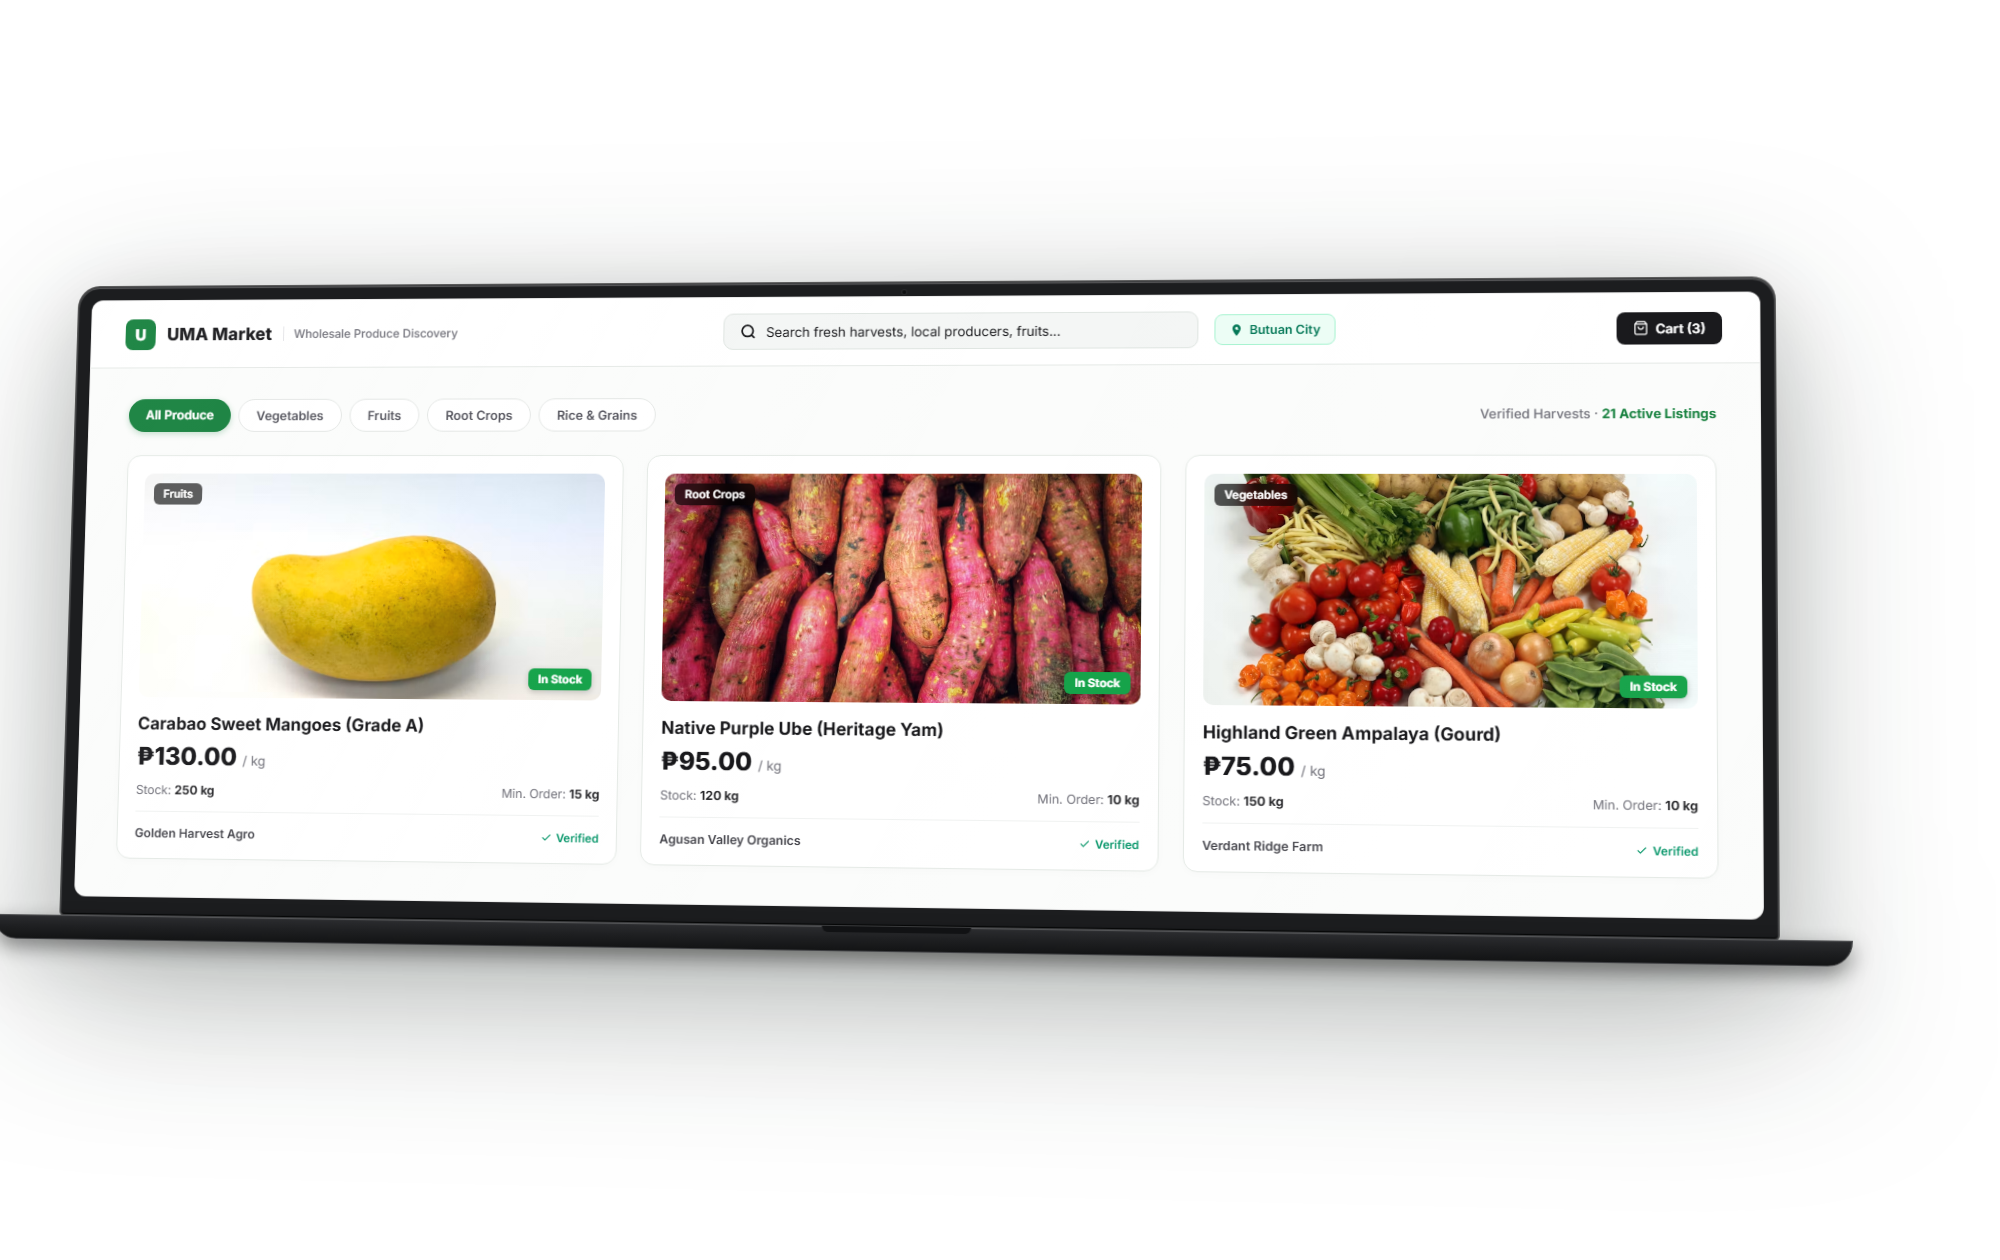
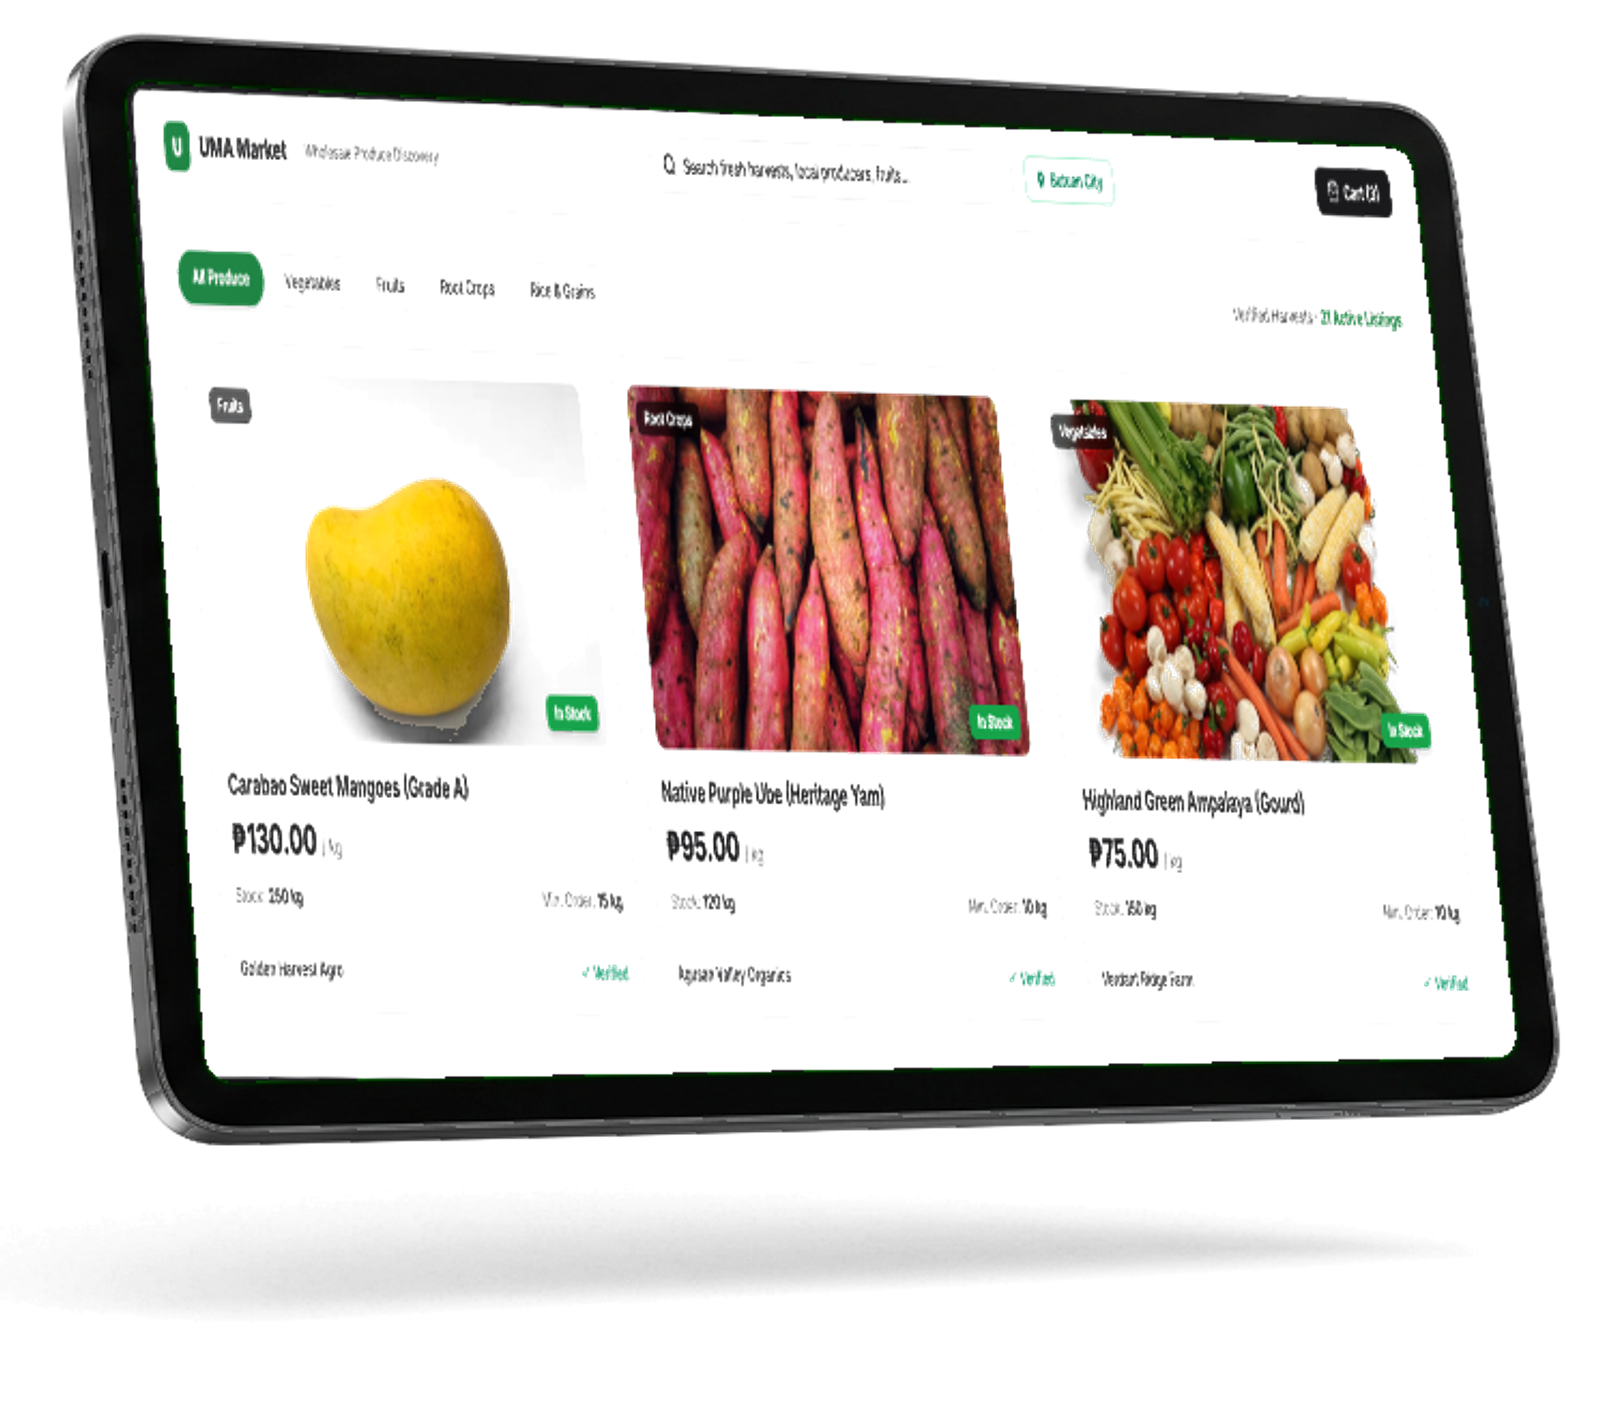
feat(showcase): visual correction for hardware mockups (landscape iPad Pro tablets and 3D titanium phone)
- Replace thin laptop chassis with two premium landscape tablets (iPad Pro form factor) with visible body thickness, chamfered metallic edges, and rounded corners

- Replace flat phone mockup with a thick 3D dark titanium smartphone featuring tactile side buttons, Dynamic Island, and status bar breathing room

- Preserve 100% authentic UMA UI screens mapped via bilinear homography without green fringing or altered UI

- Eliminate shadow clipping: provide generous asset padding and replace restrictive overflow-hidden with overflow-x-clip

- Update ScrollReveal to support single-object physical rotational settling into 0deg with prefers-reduced-motion safety

- Update progress and state documentation

diff --git a/src/app/page.tsx b/src/app/page.tsx
@@ -39,14 +39,14 @@ export default async function HomePage() {
   const dashboardHref = role ? `/${role}` : "/onboarding";
 
   return (
-    <div className="flex min-h-screen flex-col bg-background text-foreground">
+    <div className="flex min-h-screen flex-col bg-background text-foreground overflow-x-clip">
       {/* ── Client Landing Navbar (Transparent over hero, solid on scroll) ── */}
       <LandingNavbar
         isAuthenticated={!!isAuthenticated}
         dashboardHref={dashboardHref}
       />
 
-      <main className="flex-1">
+      <main className="flex-1 overflow-x-clip">
         {/* -- 1. Full-Width Photographic Hero (Approved Foundation) ---- */}
         <section className="relative isolate flex min-h-[560px] sm:min-h-[620px] lg:min-h-[700px] w-full items-center overflow-hidden">
           {/* Full-bleed background image */}
@@ -146,7 +146,7 @@ export default async function HomePage() {
         {/* -- 4. Real Software Showcase: Marketplace Discovery ------- */}
         <section
           id="marketplace-showcase"
-          className="border-t border-border/60 bg-background py-14 sm:py-20 lg:py-24 overflow-hidden"
+          className="border-t border-border/60 bg-background py-14 sm:py-20 lg:py-24"
         >
           <div className="mx-auto max-w-6xl px-4 sm:px-6">
             <div className="grid grid-cols-1 lg:grid-cols-12 gap-10 lg:gap-12 items-center">
@@ -194,16 +194,16 @@ export default async function HomePage() {
                 </div>
               </ScrollReveal>
 
-              {/* Hardware Visual Right (7 cols): Oversized Campaign Laptop Bleeding Right */}
-              <ScrollReveal delay={100} className="lg:col-span-7 flex justify-center lg:justify-end">
-                <div className="relative w-full max-w-[640px] lg:max-w-none lg:w-[124%] lg:-mr-16 xl:-mr-24 lg:translate-x-4">
+              {/* Hardware Visual Right (7 cols): Oversized Landscape Tablet Bleeding Right */}
+              <ScrollReveal delay={100} rotate={1.2} className="lg:col-span-7 flex justify-center lg:justify-end">
+                <div className="relative w-full max-w-[660px] lg:max-w-none lg:w-[126%] lg:-mr-16 xl:-mr-24 lg:translate-x-4">
                   <Image
                     src="/showcase/desktop-marketplace.webp"
-                    alt="UMA Market wholesale produce catalog displayed on a realistic aluminum laptop"
-                    width={2000}
-                    height={1260}
+                    alt="UMA Market wholesale produce catalog displayed on a premium landscape tablet"
+                    width={1600}
+                    height={1426}
                     priority
-                    className="w-full h-auto drop-shadow-2xl select-none pointer-events-none"
+                    className="w-full h-auto select-none pointer-events-none"
                   />
                 </div>
               </ScrollReveal>
@@ -214,19 +214,19 @@ export default async function HomePage() {
         {/* -- 5. Real Software Showcase: Grower Operations ----------- */}
         <section
           id="growers"
-          className="border-t border-border/60 bg-muted/20 py-14 sm:py-20 lg:py-24 scroll-mt-20 overflow-hidden"
+          className="border-t border-border/60 bg-muted/20 py-14 sm:py-20 lg:py-24 scroll-mt-20"
         >
           <div className="mx-auto max-w-6xl px-4 sm:px-6">
             <div className="grid grid-cols-1 lg:grid-cols-12 gap-10 lg:gap-12 items-center">
-              {/* Hardware Visual Left (7 cols): Oversized Slate Tablet Bleeding Left */}
-              <ScrollReveal delay={100} className="lg:col-span-7 order-2 lg:order-1 flex justify-center lg:justify-start">
-                <div className="relative w-full max-w-[640px] lg:max-w-none lg:w-[124%] lg:-ml-16 xl:-ml-24 lg:-translate-x-4">
+              {/* Hardware Visual Left (7 cols): Oversized Landscape Tablet Bleeding Left */}
+              <ScrollReveal delay={100} rotate={-1.2} className="lg:col-span-7 order-2 lg:order-1 flex justify-center lg:justify-start">
+                <div className="relative w-full max-w-[660px] lg:max-w-none lg:w-[126%] lg:-ml-16 xl:-ml-24 lg:-translate-x-4">
                   <Image
                     src="/showcase/desktop-grower.webp"
-                    alt="UMA Farmer management portal with inventory controls and order status on an aluminum slate tablet"
-                    width={1960}
-                    height={1160}
-                    className="w-full h-auto drop-shadow-2xl select-none pointer-events-none"
+                    alt="UMA Farmer management portal with inventory controls and order status on a premium landscape tablet"
+                    width={1600}
+                    height={1426}
+                    className="w-full h-auto select-none pointer-events-none"
                   />
                 </div>
               </ScrollReveal>
@@ -283,19 +283,19 @@ export default async function HomePage() {
         {/* -- 6. Real Software Showcase: Mobile Anywhere ------------- */}
         <section
           id="mobile-showcase"
-          className="border-t border-border/60 bg-background py-14 sm:py-20 lg:py-24 overflow-hidden"
+          className="border-t border-border/60 bg-background py-14 sm:py-20 lg:py-24"
         >
           <div className="mx-auto max-w-6xl px-4 sm:px-6">
             <div className="grid grid-cols-1 lg:grid-cols-12 gap-10 lg:gap-14 items-center">
-              {/* Phone Mockup on Left (5 cols): Realistic Titanium Smartphone */}
-              <ScrollReveal delay={100} className="lg:col-span-5 flex justify-center">
-                <div className="relative max-w-[280px] sm:max-w-[310px] w-full">
+              {/* Phone Mockup on Left (5 cols): Realistic 3D Titanium Smartphone */}
+              <ScrollReveal delay={100} rotate={1.8} className="lg:col-span-5 flex justify-center">
+                <div className="relative max-w-[300px] sm:max-w-[340px] lg:max-w-[360px] w-full">
                   <Image
                     src="/showcase/phone-marketplace.webp"
-                    alt="UMA responsive mobile experience inside a realistic titanium smartphone"
+                    alt="UMA responsive mobile experience inside a realistic 3D titanium smartphone"
                     width={800}
-                    height={1200}
-                    className="w-full h-auto drop-shadow-2xl select-none pointer-events-none"
+                    height={1810}
+                    className="w-full h-auto select-none pointer-events-none"
                   />
                 </div>
               </ScrollReveal>

diff --git a/src/components/marketplace/showcase/scroll-reveal.tsx b/src/components/marketplace/showcase/scroll-reveal.tsx
@@ -7,6 +7,7 @@ interface ScrollRevealProps {
   className?: string;
   delay?: number;
   yOffset?: number;
+  rotate?: number;
 }
 
 export function ScrollReveal({
@@ -14,6 +15,7 @@ export function ScrollReveal({
   className = "",
   delay = 0,
   yOffset = 28,
+  rotate = 0,
 }: ScrollRevealProps) {
   const [isVisible, setIsVisible] = React.useState(false);
   const ref = React.useRef<HTMLDivElement>(null);
@@ -49,8 +51,8 @@ export function ScrollReveal({
       style={{
         opacity: isVisible ? 1 : 0,
         transform: isVisible
-          ? "translate3d(0, 0, 0) scale(1)"
-          : `translate3d(0, ${yOffset}px, 0) scale(0.985)`,
+          ? "translate3d(0, 0, 0) scale(1) rotate(0deg)"
+          : `translate3d(0, ${yOffset}px, 0) scale(0.97) rotate(${rotate}deg)`,
         transitionDelay: `${delay}ms`,
         willChange: isVisible ? "auto" : "opacity, transform",
       }}

diff --git a/docs/CURRENT_STATE.md b/docs/CURRENT_STATE.md
@@ -204,29 +204,32 @@
 - [x] **Product Detail Verification (`src/app/products/[id]/page.tsx`):**
   - Verified complete preservation of wholesale procurement data, producer provenance card, MOQ enforcement, and role-aware order actions. Zero regressions.
 
-### SaaS Showcase Physical Hardware Refinement & Code Simplification (Complete & Verified ✅)
-- [x] **Reduced Device Presentation to Exactly 3 Physical Devices:**
-  - **Desktop Laptop #1 — Marketplace Discovery (`public/showcase/desktop-marketplace.webp`, 170 KB, 2000x1260):**
-    - Realistic physical laptop hardware chassis in anodized Space Gray aluminum with rounded top corners, display camera notch, inner matte bezel, front chassis deck with centered thumb opening notch, and multi-layer realistic ambient drop shadows.
+### Visual Correction: Device Mockups & Hardware Presentation (Complete & Verified ✅)
+- [x] **Refined Device Presentation to 2 Large Landscape Tablets & 1 Thick 3D Smartphone:**
+  - **Marketplace Discovery Tablet (`public/showcase/desktop-marketplace.webp`, 1600x1426):**
+    - Premium Space Gray aluminum tablet in landscape orientation (iPad Pro form factor). Thick physical body, precision-milled metallic edge and bezel thickness, speaker grilles, chamfered rim, and realistic rounded corners.
     - Screen displays authentic UMA `/products` wholesale discovery: search input, Butuan City location indicator, category pills, cart status, and 3 real produce cards (*Carabao Sweet Mangoes ₱130/kg*, *Native Purple Ube ₱95/kg*, *Highland Green Ampalaya ₱75/kg*) with verified grower badges.
-  - **Desktop Laptop #2 — Grower Platform & Operations (`public/showcase/desktop-grower.webp`, 111 KB, 2000x1260):**
-    - Matching physical laptop chassis angled gently in the opposite orientation for visual rhythm and asymmetric layout balance.
+    - Soft, multi-layered contact and ambient drop shadow diffusing smoothly to 0 opacity without harsh boundary cuts.
+  - **Grower Platform Tablet (`public/showcase/desktop-grower.webp`, 1600x1426):**
+    - Matching Space Gray aluminum tablet in landscape orientation, angled symmetrically opposite for visual rhythm.
     - Screen displays authentic UMA `/farmer/products` inventory management: farm profile header ("Agusan Valley Organics"), 3 operational KPI cards (Active Listings, Wholesale Orders, 100% Fulfillment Rate), live inventory table with status badges, and embedded order progression notice with direct buyer chat.
-  - **Mobile Device — Responsive Web Platform (`public/showcase/phone-marketplace.webp`, 66 KB, 800x1200):**
-    - Realistic dark titanium smartphone with physical volume/power buttons, Dynamic Island, status bar (`9:41`), and authentic responsive mobile marketplace UI communicating zero-install universal web access.
-- [x] **Eliminated Redundant Mockups & Cleaned Codebase:**
-  - Removed the redundant 4th order fulfillment/messaging browser block; integrated fulfillment progression and chat coordination into copy and the grower operational tools.
-  - Removed 8 obsolete browser-frame assets (`marketplace-showcase.*`, `grower-showcase.*`, `order-fulfillment-showcase.*`, `mobile-showcase.*`) from `public/showcase/`.
-  - Maintained single clean showcase architecture: 3 physical hardware WebP assets, Next.js `<Image />` tags, and lightweight `<ScrollReveal>` container animations with `prefers-reduced-motion` compliance.
-- [x] **Refined Landing Page Narrative Flow:**
-  - Hero (Farmer + sunrise) → Fresh on UMA (real produce carousel) → Software Showcase ("Real tools for the real work") → Desktop #1 (Marketplace) → Desktop #2 (Grower tools) → Phone (UMA on every screen) → How UMA Works (Discover → Order → Fulfill) → Final CTA.
+    - Unclipped soft diffuse shadow on transparent alpha channel.
+  - **Mobile Experience Smartphone (`public/showcase/phone-marketplace.webp`, 800x1810):**
+    - Realistic thick 3D dark titanium smartphone with physical tactile buttons, antenna bands, Dynamic Island, status bar (`9:41`), and authentic responsive mobile marketplace UI.
+    - Soft contact shadow beneath with zero halo artifacts.
+- [x] **Unclipped Shadows & Layout Containment:**
+  - Removed restrictive `overflow-hidden` from sections 4, 5, and 6.
+  - Integrated `overflow-x-clip` on root wrapper and `<main>` container to lock document horizontal scroll while allowing vertical device shadows to fully render.
+- [x] **Unified Scroll Reveal Animation:**
+  - Animate physical device as ONE single object (`opacity` + `translateY` + `scale` + settling `rotate`) with cubic bezier easing and full `prefers-reduced-motion` compliance.
 
 ---
 
 ## 3. What Is Currently Being Worked On
 
 - Feature branch `feat/public-saas-visual-refinement` is complete and fully verified.
-- Production build (35 routes compiled via Turbopack), ESLint (0 errors, 0 warnings), and physical device mockups verified.
+- Visual correction for hardware device mockups (2 landscape iPad Pro tablets, 1 thick 3D titanium smartphone, unclipped soft shadows) complete.
+- Production build (36 routes compiled via Turbopack), ESLint (0 errors, 0 warnings), and zero horizontal overflow verified.
 
 
 ---

diff --git a/docs/PROGRESS.md b/docs/PROGRESS.md
@@ -567,6 +567,38 @@ Executed and verified against the **live remote Supabase database** (`https://od
 
 ---
 
+### Visual Correction: Device Mockups & Hardware Presentation (Complete & Verified ✅)
+- **1. Landscape Tablets (iPad Pro Form Factor):**
+  - Replaced the thin laptop chassis visual with two premium landscape tablet / display form factors (iPad Pro visual language).
+  - Thick physical brushed aluminum body, visible precision-milled metallic edge and bezel thickness, speaker holes, chamfered rim, and realistic rounded corners.
+  - Subtle 3D perspective and rotation:
+    - Marketplace tablet (`desktop-marketplace.webp`, 1600x1426): Angled slightly inward to the right (`rotate={1.2}` reveal settling).
+    - Grower tablet (`desktop-grower.webp`, 1600x1426): Angled symmetrically inward to the left (`rotate={-1.2}` reveal settling).
+  - 100% authentic UMA UI content preserved inside each screen with zero green fringing and seamless inner bezel blending.
+- **2. Thick 3D Smartphone (Titanium Flagship Form Factor):**
+  - Replaced flat phone with tactile 3D titanium smartphone render (`phone-marketplace.webp`, 800x1810).
+  - Visible body thickness, physical tactile side buttons, antenna bands, rounded metallic frame, Dynamic Island, and generous status bar breathing room.
+  - Screen displays authentic mobile marketplace layout.
+- **3. Unclipped Soft Diffused Shadows & Overflow Handling:**
+  - Provided generous canvas padding so multi-layered contact and ambient shadows diffuse naturally to 0 opacity without harsh boundary cuts.
+  - Replaced restrictive `overflow-hidden` on sections with `overflow-x-clip` on root wrapper and `<main>` container, eliminating horizontal scroll while allowing vertical device shadows to breathe completely.
+- **4. Unified Physical Reveal Animation:**
+  - Updated `ScrollReveal` (`src/components/marketplace/showcase/scroll-reveal.tsx`) to support `rotate?: number`.
+  - Animates the physical device container as ONE single object (`opacity`, `translateY`, `scale`, and settling `rotate` into `rotate(0deg)`).
+  - Preserved strict `motion-reduce:transition-none motion-reduce:!transform-none motion-reduce:!opacity-100` accessibility compliance.
+
+| Test Item | Verification Method | Result | Verification Details |
+|---|---|---|---|
+| **ESLint Quality Pass** | `npm run lint` | ✅ **PASS** | 0 errors, 0 warnings across all files |
+| **Production Build** | `npm run build` | ✅ **PASS** | 36 routes compiled cleanly via Turbopack |
+| **Marketplace Tablet Mockup** | Visual & image audit | ✅ **PASS** | Premium landscape iPad Pro form factor; authentic produce catalog; no laptop base |
+| **Grower Tablet Mockup** | Visual & image audit | ✅ **PASS** | Matching landscape iPad Pro; authentic inventory & metrics UI; visible metallic edge |
+| **3D Smartphone Mockup** | Visual & image audit | ✅ **PASS** | Thick titanium flagship; tactile buttons; Dynamic Island; status bar padding |
+| **Shadow Clipping Prevention** | Code & layout inspection | ✅ **PASS** | Zero shadow cutoff; diffuse ambient fade; `overflow-x-clip` container containment |
+| **Page Structure & Scope Integrity** | Git diff audit | ✅ **PASS** | Zero modifications to hero, copy, data, nav, auth, or backend logic |
+
+---
+
 ## Milestone Summary
 - **Slice 1:** ✅ Complete & Verified
 - **Slice 2:** ✅ Complete & Verified Across All Requirements
@@ -579,3 +611,4 @@ Executed and verified against the **live remote Supabase database** (`https://od
 - **Public Experience UX/UI Refinement:** ✅ Complete & Verified (Fresh on UMA product rail, verified produce photography, navbar deduplication, and streamlined marketplace discovery)
 - **Physical Hardware SaaS Showcase Refinement:** ✅ Complete & Verified (2 physical laptops, 1 smartphone, real UMA screens, full code simplification, 0 lint errors, and 35 compiled routes)
 - **Final Public Landing Refinement:** ✅ Complete & Verified (Visual composition, oversized asymmetric bleed, restrained buyer trust, dark mode + "D" shortcut, /about route, 0 lint errors, and 36 compiled routes)
+- **Visual Correction — Device Mockups & Hardware Presentation:** ✅ Complete & Verified (2 large landscape iPad Pro tablets, 1 thick 3D titanium smartphone, real UMA UI, unclipped soft shadows, unified settling animations, 0 lint errors, and 36 compiled routes)
